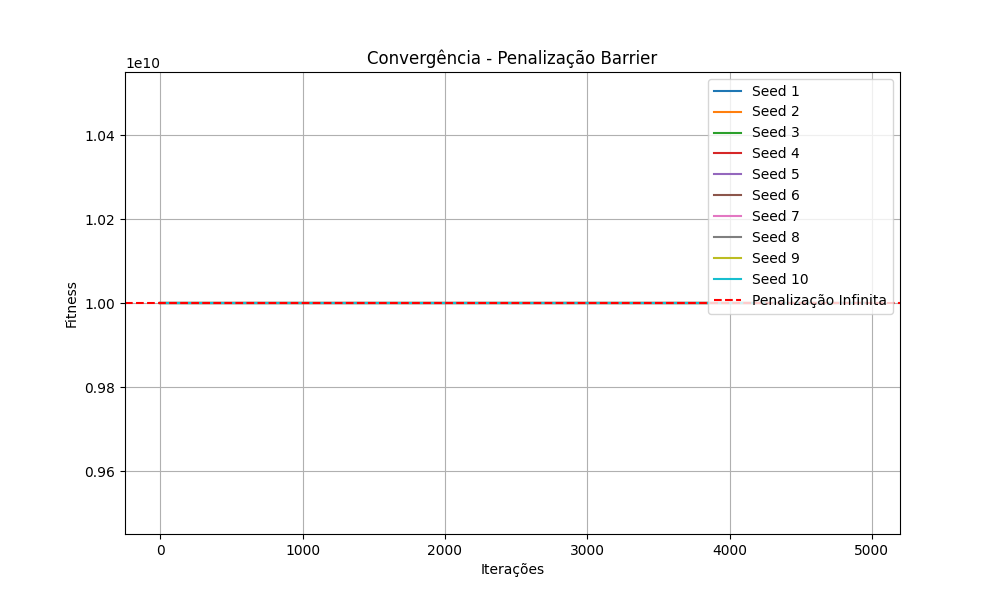
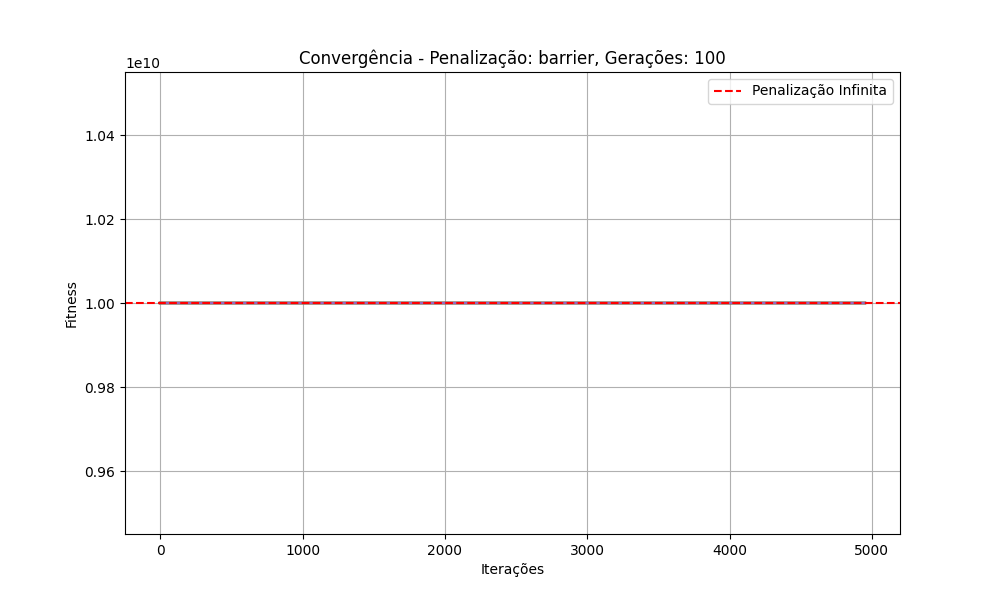
ajuste nos graficos e planilha

diff --git a/teste.py b/teste.py
@@ -80,7 +80,6 @@ def evaluate_population_with_barrier(population, constraint_func):
             feasible_solutions.append(i)  # Armazena índices de soluções viáveis
         else:
             fitness[i] = np.inf  # Penalizar soluções inviáveis com um fitness infinito
-    # Se não houver soluções viáveis, permita apenas o melhor resultado não viável
     if not feasible_solutions:
         min_fitness_idx = np.argmin(fitness)
         fitness[min_fitness_idx] = np.inf  # Penaliza a solução não viável com fitness infinito
@@ -101,10 +100,8 @@ def evaluate_population_with_dynamic_penalty(population, constraint_func):
                 best_feasible_fitness = current_fitness
                 found_feasible_solution = True
         else:
-            # Se uma solução viável não foi encontrada, aplica uma penalidade
             penalty = sum(max(0, -a) for a in constraints)
             fitness[i] = objective_function(sol) + abs(penalty) + 2200
-            # Se uma solução viável já foi encontrada, não permitir que soluções inviáveis sejam melhores
             if found_feasible_solution:
                 fitness[i] = max(fitness[i], best_feasible_fitness)
     return fitness
@@ -119,8 +116,6 @@ def genetic_algorithm(num_generations, pop_size, num_variables, min_val, max_val
     population = initialize_population(pop_size, num_variables, min_val, max_val)
     best_fitness = []
     best_solutions = []
-    all_solutions = []
-    all_fitness = []
     
     for _ in range(num_generations):
         if penalty_type == 'barrier':
@@ -131,17 +126,18 @@ def genetic_algorithm(num_generations, pop_size, num_variables, min_val, max_val
             raise ValueError("Invalid penalty type. Choose 'barrier' or 'dynamic'.")
 
         best_individual, best_fitness_value = find_best_individual(population, fitness)
-        best_fitness.append(best_fitness_value)
+        if not best_fitness or best_fitness_value < best_fitness[-1]:
+            best_fitness.append(best_fitness_value)
+        else:
+            best_fitness.append(best_fitness[-1])
+            
         best_solutions.append(best_individual)
-        for i in range(pop_size):
-            all_solutions.append(population[i])
-            all_fitness.append(fitness[i])
         parents = select_parents(population, fitness, tournament_size)
         children = crossover(parents, crossover_rate)
         mutated_children = mutate(children, mutation_rate, min_val, max_val)
         population = mutated_children
     
-    return best_fitness, best_solutions, all_fitness, all_solutions
+    return best_fitness, best_solutions
 
 # Parâmetros do algoritmo genético
 num_generations = [100,1000,10000]
@@ -163,57 +159,52 @@ results = []
 # Execução do algoritmo genético com ambas as penalizações
 penalty_types = ['barrier', 'dynamic']
 for penalty_type in penalty_types:
-    feasible_solutions_count = 0
     for num_g in num_generations:
         fitness_results = []
         execution_times = []
 
-        for i in range(10):
+        for i in range(25):
             np.random.seed(i)
             start_time = time.time()
-            if penalty_type == 'barrier':
-                best_fitness, best_solutions, all_fitness, all_solutions = genetic_algorithm(
-                    num_g, pop_size, num_variables, min_val, max_val, crossover_rate, mutation_rate, tournament_size, penalty_type='barrier'
-                )
-            elif penalty_type == 'dynamic':
-                best_fitness, best_solutions, all_fitness, all_solutions = genetic_algorithm(
-                    num_g, pop_size, num_variables, min_val, max_val, crossover_rate, mutation_rate, tournament_size, penalty_type='dynamic'
-                )
-            else:
-                raise ValueError("Invalid penalty type. Choose 'barrier' or 'dynamic'.")
-
+            best_fitness, best_solutions = genetic_algorithm(
+                num_g, pop_size, num_variables, min_val, max_val, crossover_rate, mutation_rate, tournament_size, penalty_type
+            )
             execution_time = time.time() - start_time
             execution_times.append(execution_time)
             fitness_results.append(best_fitness)
-            # Gráficos de convergência
-            plt.figure(figsize=(10, 6))
-            num_iterations = pop_size * num_g
-            for i, fitness in enumerate(fitness_results):
-                # Substitui np.inf por um valor grande para visualização
-                y_values = [val if val != np.inf else 1e10 for val in fitness]
-                x_values = np.arange(len(y_values)) * pop_size # Ajusta o eixo x
-                plt.plot(x_values, y_values, label=f'Seed {i+1}')
-
-            # Adiciona a linha horizontal somente para penalização por barreira
-            if penalty_type == 'barrier':
-                plt.axhline(y=1e10, color='r', linestyle='--', label='Penalização Infinita')
-
-            plt.xlabel('Iterações')
-            plt.ylabel('Fitness')
-            plt.title(f'Convergência - Penalização {penalty_type.capitalize()}')
-            plt.legend()
-            plt.grid(True)
-            plt.savefig(f"{output_dir}/convergence_{penalty_type}_{num_g}.png")
-            plt.close()
-
-
-
-        # Salvando os resultados
-        avg_fitness = np.mean([f[-1] for f in fitness_results])
-        best_avg_fitness = np.mean([f[0] for f in fitness_results])
+        
+        # Cálculos das métricas
+        best_final_fitness = [f[-1] for f in fitness_results]
+        avg_fitness = np.mean(best_final_fitness)
+        best_fitness = np.min(best_final_fitness)
+        worst_fitness = np.max(best_final_fitness)
+        std_fitness = np.std(best_final_fitness)
         avg_time = np.mean(execution_times)
-        results.append([penalty_type, num_g, avg_fitness, best_avg_fitness, avg_time, feasible_solutions_count])
 
-# Criando o DataFrame de resultados
-df_results = pd.DataFrame(results, columns=['Penalização', 'Gerações', 'Fitness Médio', 'Melhor Fitness', 'Tempo Médio', 'Soluções Viáveis'])
-df_results.to_excel(f"{output_dir}/results.xlsx", index=False)
+        results.append([penalty_type, num_g, avg_fitness, best_fitness, worst_fitness, std_fitness, avg_time])
+
+        # Gráficos de convergência
+        plt.figure(figsize=(10, 6))
+        num_iterations = pop_size * num_g
+        for i, fitness in enumerate(fitness_results):
+            y_values = [val if val != np.inf else 1e10 for val in fitness]
+            x_values = np.arange(len(y_values)) * pop_size
+            plt.plot(x_values, y_values)
+
+        if penalty_type == 'barrier':
+            plt.axhline(y=1e10, color='r', linestyle='--', label='Penalização Infinita')
+
+        plt.xlabel('Iterações')
+        plt.ylabel('Fitness')
+        plt.title(f'Convergência - Penalização: {penalty_type}, Gerações: {num_g}')
+        plt.legend()
+        plt.grid(True)
+        plt.savefig(f"{output_dir}/convergence_{penalty_type}_{num_g}.png")
+        plt.close()
+
+# Criação da tabela de resultados
+columns = ['Penalização', 'Gerações', 'Média', 'Melhor', 'Pior', 'Desvio Padrão', 'Tempo Médio']
+results_df = pd.DataFrame(results, columns=columns)
+
+# Salvando a tabela em formato Excel
+results_df.to_excel(f"{output_dir}/resultados_genetico.xlsx", index=False)
